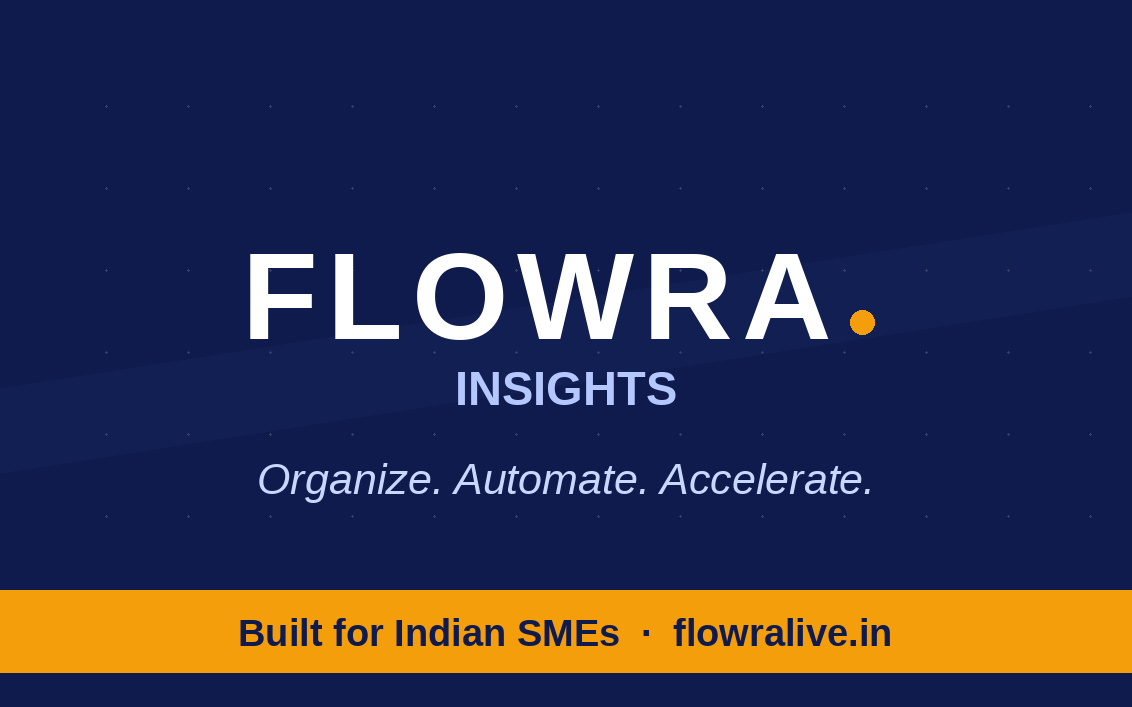
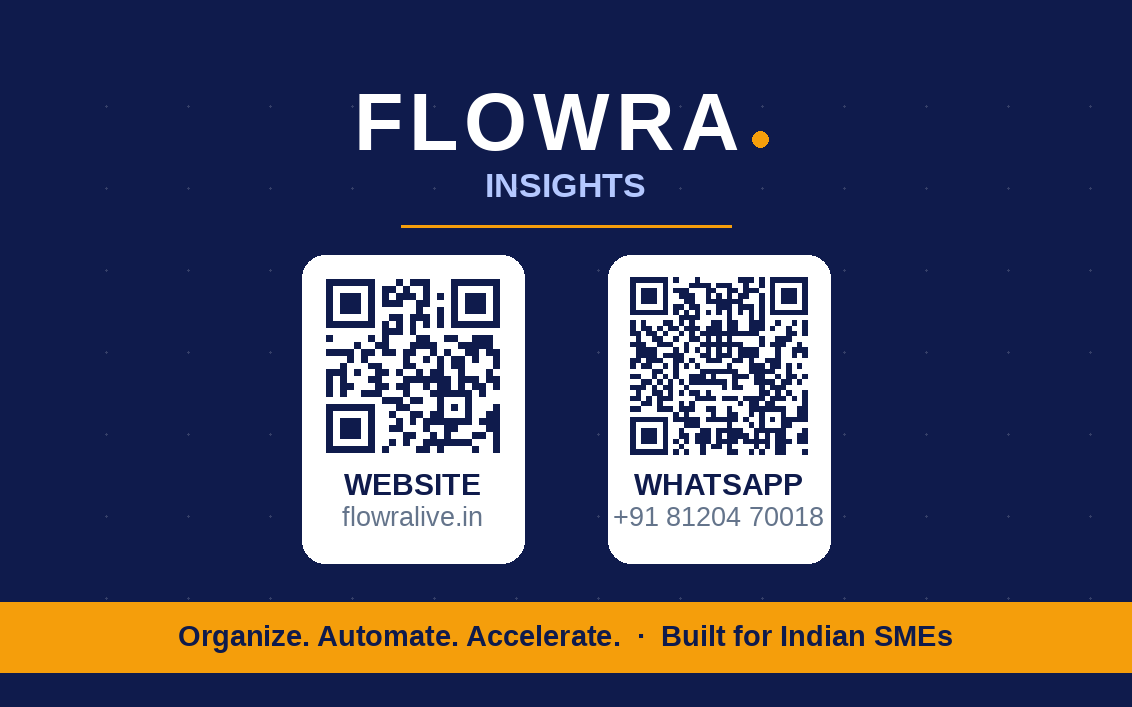
auto-commit for ca127601-449b-4370-93dd-d5437b1feeb4

Changed region(s): [[0.0, 0.3112, 1.0, 0.9335], [0.3092, 0.1245, 0.6802, 0.2178], [0.4329, 0.2489, 0.5875, 0.2801]]

diff --git a/scripts/generate_visiting_card.py b/scripts/generate_visiting_card.py
@@ -2,7 +2,7 @@
 
 Outputs (saved to /app/frontend/public/cards/):
   flowra_card_front.png   — Ankit Sarawgi side, print-ready 300 DPI + bleed
-  flowra_card_back.png    — Brand panel side
+  flowra_card_back.png    — Brand panel with WEBSITE + WHATSAPP QR codes
   flowra_card_combined.png — Side-by-side preview for screen viewing
   flowra_card_print.pdf   — Both sides on a single A4, ready for printer
 
@@ -10,9 +10,15 @@ Card spec (Indian standard):
   Trim size: 90 × 54 mm  (1063 × 638 px @ 300 DPI)
   Bleed:     3 mm all sides → canvas 96 × 60 mm (1134 × 709 px)
   Safe area: 3 mm inside trim (so content stays ≥6 mm from canvas edge)
+
+QR targets:
+  Website:  https://flowralive.in
+  WhatsApp: https://wa.me/918120470018?text=Hi%20FLOWRA%20team
 """
 from pathlib import Path
 
+import qrcode
+from qrcode.constants import ERROR_CORRECT_M
 from PIL import Image, ImageDraw, ImageFont
 from reportlab.lib.pagesizes import A4
 from reportlab.lib.units import mm
@@ -217,66 +223,130 @@ def render_front(path):
     img.save(path, dpi=(DPI, DPI), quality=95)
 
 
-# ───── BACK SIDE — Brand panel ────────────────────────────────────────────
+# ───── QR helper ──────────────────────────────────────────────────────────
+def make_qr(data, *, box_px, fill=(15, 27, 76), bg=(255, 255, 255), border=2):
+    """Build a high-contrast QR at exactly `box_px` square."""
+    qr = qrcode.QRCode(
+        version=None,
+        error_correction=ERROR_CORRECT_M,
+        box_size=10,
+        border=border,
+    )
+    qr.add_data(data)
+    qr.make(fit=True)
+    img = qr.make_image(fill_color=fill, back_color=bg).convert("RGB")
+    return img.resize((box_px, box_px), Image.NEAREST)
+
+
+# ───── BACK SIDE — Brand panel with QR codes ──────────────────────────────
 def render_back(path):
     img = Image.new("RGB", (CANVAS_W, CANVAS_H), NAVY)
     d = ImageDraw.Draw(img)
 
-    # Diagonal blue strip (subtle)
-    d.polygon([(0, CANVAS_H * 0.55),
-               (CANVAS_W, CANVAS_H * 0.30),
-               (CANVAS_W, CANVAS_H * 0.42),
-               (0, CANVAS_H * 0.67)],
-              fill=(25, 50, 115))
-
-    # Dotted texture (sparse)
+    # Subtle dotted texture
+    texture = Image.new("RGBA", (CANVAS_W, CANVAS_H), (15, 27, 76, 0))
+    td = ImageDraw.Draw(texture)
     for gy in range(BLEED + int(6 * MM), CANVAS_H - BLEED, int(7 * MM)):
         for gx in range(BLEED + int(6 * MM), CANVAS_W - BLEED, int(7 * MM)):
-            d.ellipse((gx, gy, gx + 2, gy + 2),
-                      fill=(255, 255, 255))
-    # Slight darkening overlay
-    overlay = Image.new("RGBA", img.size, (15, 27, 76, 215))
-    img = Image.alpha_composite(img.convert("RGBA"), overlay).convert("RGB")
+            td.ellipse((gx, gy, gx + 2, gy + 2), fill=(255, 255, 255, 40))
+    img = Image.alpha_composite(img.convert("RGBA"), texture).convert("RGB")
     d = ImageDraw.Draw(img)
 
-    # Central FLOWRA wordmark
+    # ─── Top: FLOWRA wordmark ───────────────────────────────────────────
     word = "FLOWRA"
-    wm_size = int(CANVAS_W * 0.11)
+    wm_size = int(CANVAS_W * 0.072)
     f = font(wm_size, "bold")
     spacing = int(wm_size * 0.08)
     total_w = sum(text_width(ch, f) + spacing for ch in word) + int(wm_size * 0.4)
-    cx = (CANVAS_W - total_w) // 2
-    cy = int(CANVAS_H * 0.32)
+    cx0 = (CANVAS_W - total_w) // 2
+    cy0 = BLEED + int(3.5 * MM)
+    cx = cx0
     for ch in word:
-        text(d, (cx, cy), ch, fnt=f, color=PAPER)
+        text(d, (cx, cy0), ch, fnt=f, color=PAPER)
         cx += text_width(ch, f) + spacing
     dot_r = int(wm_size * 0.10)
-    d.ellipse((cx + spacing, cy + int(wm_size * 0.78) - dot_r,
-               cx + spacing + dot_r * 2, cy + int(wm_size * 0.78) + dot_r),
+    d.ellipse((cx + spacing, cy0 + int(wm_size * 0.78) - dot_r,
+               cx + spacing + dot_r * 2, cy0 + int(wm_size * 0.78) + dot_r),
               fill=AMBER)
 
-    # INSIGHTS sub-word
-    sub_font = font(int(wm_size * 0.38), "bold")
+    # INSIGHTS sub
+    sub_font = font(int(wm_size * 0.42), "bold")
     sub = "INSIGHTS"
     sub_w = text_width(sub, sub_font)
-    text(d, ((CANVAS_W - sub_w) // 2, cy + int(wm_size * 1.1)),
+    text(d, ((CANVAS_W - sub_w) // 2, cy0 + int(wm_size * 1.12)),
          sub, fnt=sub_font, color=(180, 200, 255))
 
-    # Tagline
-    tag = "Organize. Automate. Accelerate."
-    tagf = font(int(CANVAS_W * 0.038), "italic")
-    tw = text_width(tag, tagf)
-    text(d, ((CANVAS_W - tw) // 2, cy + int(wm_size * 1.85)),
-         tag, fnt=tagf, color=(200, 215, 255))
+    # Slim divider
+    div_y = cy0 + int(wm_size * 1.85)
+    d.rectangle(((CANVAS_W - int(28 * MM)) // 2, div_y,
+                 (CANVAS_W + int(28 * MM)) // 2, div_y + 2), fill=AMBER)
 
-    # Bottom amber strip
-    strip_h = int(7 * MM)
+    # ─── Two QR codes side by side ───────────────────────────────────────
+    qr_box_mm = 16.0          # 16 mm square per QR — comfortable scan size, fits vertically
+    qr_box_px = int(qr_box_mm * MM)
+    gap_between = int(10 * MM)
+
+    qr_y_top = div_y + int(4.0 * MM)
+    total_qrs_w = qr_box_px * 2 + gap_between
+    qr_x_left = (CANVAS_W - total_qrs_w) // 2
+    qr_x_right = qr_x_left + qr_box_px + gap_between
+
+    # Label heights (so the pill includes the label area + breathing room)
+    lbl_main_size = int(CANVAS_W * 0.027)
+    lbl_sub_size = int(CANVAS_W * 0.024)
+    label_block_h = lbl_main_size + lbl_sub_size + int(2.5 * MM)
+    pad = int(1.5 * MM)
+
+    # White rounded pill behind each QR + label for max scan contrast
+    for qx in (qr_x_left, qr_x_right):
+        d.rounded_rectangle(
+            (qx - pad, qr_y_top - pad,
+             qx + qr_box_px + pad,
+             qr_y_top + qr_box_px + pad + label_block_h),
+            radius=int(2 * MM),
+            fill=PAPER,
+        )
+
+    # Website QR
+    web_qr = make_qr("https://flowralive.in", box_px=qr_box_px,
+                     fill=(15, 27, 76), bg=(255, 255, 255), border=1)
+    img.paste(web_qr, (qr_x_left, qr_y_top))
+
+    # WhatsApp QR (deep link to chat with pre-filled message)
+    wa_qr = make_qr(
+        "https://wa.me/918120470018?text=Hi%20FLOWRA%20team",
+        box_px=qr_box_px,
+        fill=(15, 27, 76), bg=(255, 255, 255), border=1,
+    )
+    img.paste(wa_qr, (qr_x_right, qr_y_top))
+
+    # Labels under each QR
+    d = ImageDraw.Draw(img)
+    lbl_font = font(lbl_main_size, "bold")
+    lbl_sub_font = font(lbl_sub_size, "regular")
+
+    def _label(qx, line1, line2):
+        l1w = text_width(line1, lbl_font)
+        text(d, (qx + (qr_box_px - l1w) // 2,
+                 qr_y_top + qr_box_px + int(0.6 * MM)),
+             line1, fnt=lbl_font, color=NAVY)
+        l2w = text_width(line2, lbl_sub_font)
+        text(d, (qx + (qr_box_px - l2w) // 2,
+                 qr_y_top + qr_box_px + int(0.6 * MM) + lbl_main_size + int(0.4 * MM)),
+             line2, fnt=lbl_sub_font, color=GREY)
+
+    _label(qr_x_left, "WEBSITE", "flowralive.in")
+    _label(qr_x_right, "WHATSAPP", "+91 81204 70018")
+
+    # ─── Bottom: amber strip ────────────────────────────────────────────
+    strip_h = int(6 * MM)
     d.rectangle((0, CANVAS_H - BLEED - strip_h, CANVAS_W, CANVAS_H - BLEED),
                 fill=AMBER)
-    foot_font = font(int(CANVAS_W * 0.034), "bold")
-    foot = "Built for Indian SMEs  ·  flowralive.in"
+    foot_font = font(int(CANVAS_W * 0.026), "bold")
+    foot = "Organize. Automate. Accelerate.  ·  Built for Indian SMEs"
     fw = text_width(foot, foot_font)
-    text(d, ((CANVAS_W - fw) // 2, CANVAS_H - BLEED - strip_h + int(1.8 * MM)),
+    text(d, ((CANVAS_W - fw) // 2,
+             CANVAS_H - BLEED - strip_h + int(1.5 * MM)),
          foot, fnt=foot_font, color=NAVY)
 
     img.save(path, dpi=(DPI, DPI), quality=95)
